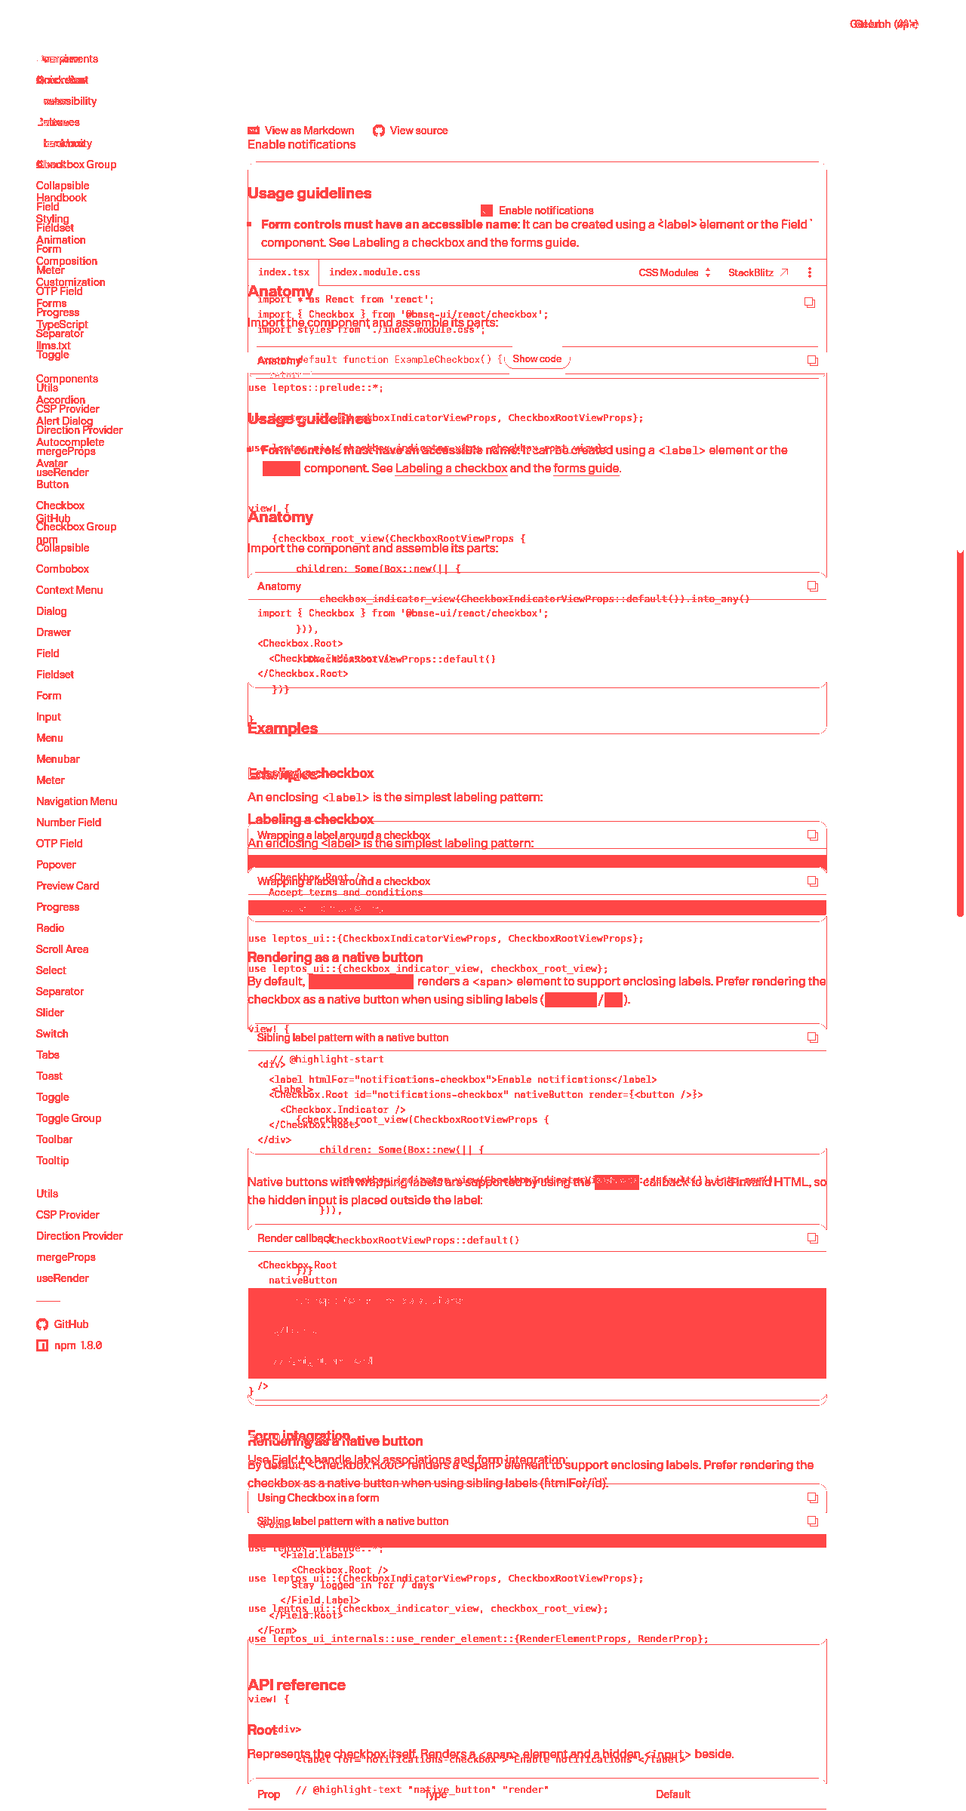
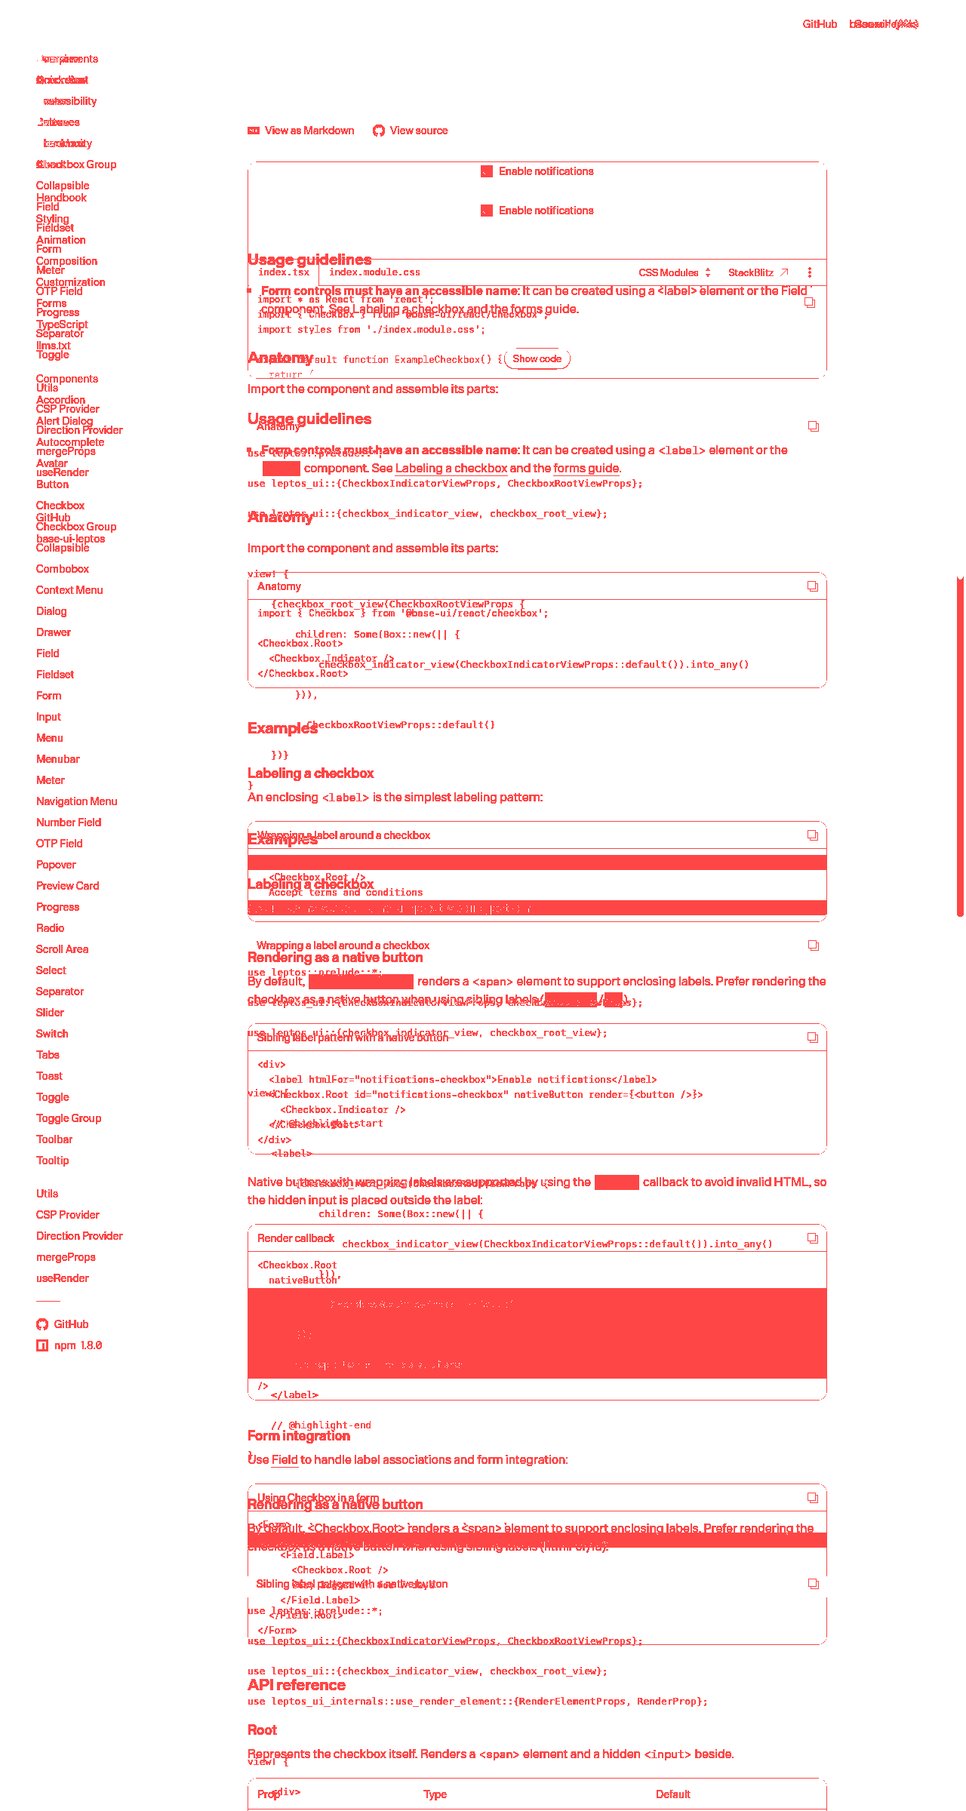
[docs-chrome: API reference tables] closed on measurement: both named routes render upstream's reference shape at tables parity (button 1/2 vs 1/2, checkbox 2/28 vs 2/28), props rows and anchors upstream's, on an independent re-check of work that had landed unverified [model: deepseek-v4-flash]
Chosen OVER the mechanical suggestion (`docs-copy: install lines + React type columns on the 18 mirrored
pages (no-rework lane)`) and recorded as such in TODO.md before any work: that item is `status: blocked`
and its blocked-reason was re-measured at this tree rather than trusted — it holds (check-package-alias 12
defects, check-react-mentions --source 59 fail), and its residuals are owned elsewhere (5 `#[cfg(test)]`
positive controls; 7 first lines of rendered example blocks owned by the snippet-translation batches 3/4,
two of whose routes cannot be translated at all because the crate exposes no Separator/Toggle component).
This item was instead unblocked, bounded, and carried unverified/unrecorded work.

Verification of the two done-when clauses, browser-measured (both dev servers up, 1280px, served build
42968858b on this tree):
  * button: 5 `details.AccordionItem` prop rows with upstream's anchors + `ReferenceTableRoot >
    table.TableRootTable` (head + 1 row, upstream's head cells and cell text);
  * checkbox: 22 prop rows (18 CheckboxRoot-*, 4 CheckboxIndicator-*) + 2 tables of 12/14 body rows =
    upstream's 26 data-attribute rows;
  * tables recall parity from the two-sided instrument (`ralph/logs/visual/{button,checkbox}.md`), and
    neither route's gap list names an `API reference tables` gap any more;
  * `cargo test -p docs-app --lib` 56 green, including the page's `reference_content_guard` drift tests;
[…]

diff --git a/TODO.md b/TODO.md
@@ -2831,11 +2831,12 @@ below is what keeps them from silently regressing.
       done-when: each hero/demo renders inside upstream's demo container — bordered panel, the react/tailwind/css-modules file selector tabs, and the code block beneath it — instead of a bare component on the page; page-level state is reported by the page scorecard (`node ralph/scripts/check-page.mjs --route <route> [--strict]`, ralph/PLAN.md §3) — the bars this item owes are the ones stated above
       note: the demos themselves mount and work (demos recall is already 1/1 on checkbox); what is missing is entirely their presentation
 
-- [ ] docs-chrome: API reference tables
+- [x] docs-chrome: API reference tables
       crate: docs-app
       specs: docs/src/components/DescriptionList.tsx, docs/src/app/(docs)/react/components/checkbox/types.md
       blocked-by: [docs-app: routing + layout shell, docs-content: components/button]  # precise deps: the shell this item always named, plus the button page's `## Snippet & behaviour contract` its own blocked-then-unblocked note above records (the button page's API-reference section is half this item's done-when, and this loop's step 6c forbids repairing a page whose spec carries no contract) — both done
-      status: not-started
+      status: done
+      commit: (pending — this item's own work/ledger commit; its sha is recorded by the follow-up sha-record commit, deliberately not pre-filled so no fabricated sha can survive an interrupted iteration)
       note: BLOCKED THIS ITERATION, and the reason is NOT a gate failure — `bash ralph/scripts/run-regression.sh "docs-chrome: API reference tables"` exits 0 at this tree. The checkbox half is DONE and measured (tables 0/2 -> 2/2 parity, blended score 72.21 -> 83.89, see the closing note below); the button route the done-when also names is NOT landed, because the button page's spec carries no `## Snippet & behaviour contract` and its live Anatomy block still teaches upstream's React source (`crates/docs-app/src/pages/button_page.rs`) — page work there is the `docs-spec:` queue per `specs/docs-content/CONTRACT.md` requirement 5 and this loop's step 6c, so it was not improvised, and the item is left open rather than marked done over a clause it does not meet. Unblock path: author the button page's contract (a `docs-spec:` pick), then render its generated tables with the primitives this iteration added (`crate::reference`), which makes the button half a small, bounded change.
       note: UNBLOCKED 2026-09-16 by `docs-content: components/button` (commit 174a1b0ad) — the blocker this
         note recorded above is GONE, verified at this tree rather than assumed: `node
@@ -2956,6 +2957,82 @@ below is what keeps them from silently regressing.
         the port renders prose), the third of the page's three named gaps that this loop can close without
         touching demo chrome, and (4) bounded: this crate's page file plus the ported primitive module, with
         the checkbox half already landed as the shape to follow and re-measure against.
+      note: STEP 0 RECORD, written BEFORE any implementation work — CHOSEN OVER the mechanical suggestion
+        (`docs-copy: install lines + React type columns on the 18 mirrored pages (no-rework lane)`, which
+        `pick-next-todo.mjs` re-run this iteration prints). That item is `status: blocked`, and its recorded
+        blocked-reason was RE-MEASURED at this tree rather than trusted: it HOLDS — `node
+        ralph/scripts/check-package-alias.mjs` reads 12 defect(s) and `node
+        ralph/scripts/check-react-mentions.mjs --source` 59 fail — and its residuals decompose again into
+        clusters it does not own: 5 `#[cfg(test)] snippet_language_guard` POSITIVE CONTROLS
+        (accordion_page.rs:616, button_page.rs:540/567/571, checkbox_page.rs:872) that neither gate can
+        distinguish from reader-facing content, and 7 FIRST LINES of *rendered* example blocks owned by
+        `docs-chrome: snippet translation (batch 3)` (otp-field:188, progress:265, separator:136, toggle:197)
+        and `(batch 4)` (csp-provider:130/167, direction-provider:169). So it is not closable this iteration —
+        and neither is its own unblock path: 2 of batch 3's 4 routes CANNOT be translated today (the crate
+        exposes no `Separator`/`Toggle` component — measured: `crates/leptos-ui/src/separator.rs` and
+        `toggle/mod.rs` carry `separator_element`/`toggle_element` and no `#[component]`, and
+        `check-part-surface.mjs` records both units INERT because their mined specs document no own part), so
+        the only portable teaching form there is a `…(…Props { .. })` raw call that `docs-ergonomics` and
+        `library: namespaced part surface (inputs batch)` will re-spell — precisely the rework the blocked
+        item's note forbids. WHY THIS ITEM, and why it is broken state rather than a fresh start: both of its
+        deps (`docs-app: routing + layout shell`, `docs-content: components/button`) are done, its checkbox
+        half is recorded done, and its BUTTON half existed in the tree as UNVERIFIED, UNRECORDED work — the
+        driver's post-condition landed the previous iteration's uncommitted edit to
+        `crates/docs-app/src/pages/button_page.rs` as snapshot 96d135b22 (subject ends "NOT a
+        done-marking"), so the page source renders `reference::props_section(BUTTON_PROPS, …)` +
+        `reference::data_attributes_table(…)` while this item's own note still says the button route
+        "renders its `## API reference` section as prose (`api_part`)" — a claim the tree contradicts (no
+        `api_part` exists). An independent re-check of landed work is this ledger's own doctrine, and this
+        item's done-when (tables recall parity on the routes whose upstream page carries tables) is the bar it
+        is written against. `blocked-by` is UNCHANGED — nothing narrowed, nothing blanked.
+        TWO MEASUREMENT CORRECTIONS, recorded because the first version of this note claimed the opposite of
+        what the instrument shows. (1) I first "proved" the button route lacked the tables by grepping `curl`
+        for `Button-focusableWhenDisabled` and `ReferenceTableRoot` and getting 0 hits — that evidence is
+        WORTHLESS, because this docs app is client-side rendered (`crates/docs-app/index.html` mounts the wasm
+        bundle; the served document is a shell that contains no page text at all). (2) I then called the
+        button half "UNSERVED": it is not — my `cargo leptos build` was a NO-OP ("Finished in 0.25s", the
+        served wasm unchanged at 42,968,858 bytes) and the served build already carried the work, which is
+        why the route measures identically before and after (87.41, visual 93.04, pixelDiff 6.96%). The
+        claim is withdrawn and replaced with the real instrument, in the closing note below.
+      note: CLOSED THIS ITERATION on measurement, clause by clause, both halves re-checked rather than
+        inherited. (1) THE SECTION RENDERS UPSTREAM'S SHAPE, NOT PROSE — CDP probe over the served app at
+        1280px (both dev servers up): the button route carries 5 `details.AccordionItem` prop rows with
+        upstream's anchors (`#Button-focusableWhenDisabled`, `#Button-nativeButton`, `#Button-className`,
+        `#Button-style`, `#Button-render`, each showing upstream's short summary type) plus
+        `div.ReferenceTableRoot > table.TableRootTable` (1 table, head + 1 body row, heads
+        `Attribute | Description | -`, the cell reading "Present when the button is disabled."); the checkbox
+        route carries 22 prop rows (18 `CheckboxRoot-*`, 4 `CheckboxIndicator-*`, upstream's anchors) and 2
+        tables of 12 + 14 body rows = the 26 data-attribute rows upstream shows, with all 26 descriptions.
+        (2) TABLES RECALL IS AT PARITY on both routes the done-when names, measured by ONE instrument that
+        renders both apps (`visual-gap-report.mjs`, which is where the number is printed at all — see the
+        discrepancy-log entry below): `ralph/logs/visual/button.md` upstream `1 / 2` vs leptos `1 / 2` and
+        `ralph/logs/visual/checkbox.md` upstream `2 / 28` vs leptos `2 / 28` — and neither route's gap list
+        contains an `API reference tables` gap any more (it did on checkbox when the blocked note was
+        written: "upstream renders 2 table(s) (28 rows); this page renders 0"). The served bundle is this
+        tree's: build 42968858b, wasm 42,968,858 bytes, both sides at 1280px. SOURCE SIDE, re-checked rather
+        than trusted: `crates/docs-app/src/reference.rs` renders upstream's element shape (its module docs
+        `:23-35` name `ReferenceTableRoot`/`TableRootTable`/`AccordionItem`; upstream's own API reference
+        renders through the docs site's `Accordion` component and `DescriptionList`, cited by this item's
+        `specs:` field) and the page's own drift guard (`reference_content_guard`: row names and order,
+        upstream's short summary types, the `Button-<name>` anchors, the documented defaults, the
+        complementary Default-cell rule, and the every-row-carries-content check) is among the 56 docs-app
+        host tests that pass. HONEST LIMITS, not claimed: (a) the docs-app WASM suite cannot run on this box
+        right now — `button_page_api_reference_renders_upstreams_section_and_table` (render_test.rs:2304) was
+        SIGKILLed (signal 9; the 4 GiB cgroup OOM the code-blocks entry already records for this same 36 MB
+        debug module), so that assertion is enabled-but-unrun and the browser DOM evidence plus the host
+        guards are what back this done-marking; (b) this iteration changed NO page source, so it claims no
+        score delta: the recorded baselines were kept by the gate (checkbox 85.85 was 85.87, button 87.41 was
+        87.42, worst delta on any recorded route -0.05, three routes' widget regions still UNMEASURABLE as
+        before); (c) ONE residue is left visible rather than quietly fixed inside a done-marking — upstream
+        also mirrors each data attribute as a props-accordion row beside the table (button: upstream 6
+        `details` rows vs this port's 5), which this item's done-when does not name; measured, written up in
+        `ralph/logs/spec-discrepancies.md`, and left for a future iteration of this item or of
+        `docs-chrome: API reference code blocks`. GATE: `bash ralph/scripts/run-regression.sh "docs-chrome:
+        API reference tables"` EXIT 0 at this tree — citation check (the two `specs:` entries are upstream
+        source files, 0 citations each), `cargo test --workspace` green (366 + 416 + 281 + 56 + 11 + 1 + …
+        host tests, 0 failures), `TODO.md` schema OK (178 items), sandbox parity OK,
+        `cd crates/docs-app && cargo leptos build` OK, and `check-visual-budget --all-done` ok on every
+        recorded route with no route regressed.
 
 - [ ] docs-chrome: demo styling (the demos carry upstream's Tailwind variant, which this app does not compile)
       crate: docs-app

diff --git a/ralph/logs/visual/button.md b/ralph/logs/visual/button.md
@@ -1,34 +1,28 @@
 # Visual gap report — react/components/button
 
-Generated by `ralph/scripts/visual-gap-report.mjs` at 2026-09-16T04:50:37.821Z.
-Measured build: wasm 35803229 bytes, last-modified Wed, 16 Sep 2026 04:08:20 GMT.
+Generated by `ralph/scripts/visual-gap-report.mjs` at 2026-09-16T13:55:50.889Z.
+Measured build: wasm 42968858 bytes, last-modified Wed, 16 Sep 2026 13:55:08 GMT.
 Both sides rendered at 1280px in Chrome for Testing: upstream React docs on
 http://127.0.0.1:3005, Leptos docs-app on http://127.0.0.1:3177.
 
-**Pixel difference: 8.29%** (254661 of 3072000 px)
-**Component widget parity: 84.42%** (bar: 97%)
+**Pixel difference: 6.99%** (214639 of 3072000 px)
+**Component widget parity: 100%** (bar: 97%)
 
 - mask (white/bright = differs): `ralph/logs/visual/button-mask.png`
 - overlay (upstream grey, ours red): `ralph/logs/visual/button-sbs.png`
 
 ## Prioritised gaps
 
-- **P0 · syntax highlighting** — upstream's code carries 56 coloured tokens; this page has 0 — the code is unstyled monochrome
-  - fix: port the highlighter (upstream pre-computes tokens via rehype/Shiki into CodeBlockPreComputed) and render the token spans with their colours
-- **P0 · component widget parity** — the rendered component area is 84.42% identical to upstream (bar: 97%)
-  - fix: compare ralph/logs/visual/<component>-upstream-widget.png against -leptos-widget.png: both are cropped to the same rect around the demo's own control, so the gap is inside the component's own markup (spacing, control size, colours, font), not the page around it. This is the number the Phase E parity item is measured on.
 - **P1 · code blocks** — this page has 2 <pre> blocks vs upstream's 10 (20%)
   - fix: render the embedded snippets through the ported code-block component so each code fence becomes its own block
+- **P1 · syntax highlighting** — coloured tokens 29 vs upstream 56
+  - fix: extend the highlighter coverage — some snippets render unstyled
 - **P1 · demo file tabs** — upstream renders 4 tab(s) for demo source files; this page renders none
   - fix: wrap each demo in upstream's Demo container with the react/tailwind/css-modules file selector
 - **P2 · page affordances** — upstream shows 6 page actions (View as Markdown / View source / StackBlitz / StackBlitz); this page shows none
   - fix: add the page-action row (View as Markdown / View source) to the docs page shell
-- **P2 · code copy control** — upstream renders 4 copy affordance(s) on code; this page renders none
-  - fix: add the copy-to-clipboard control to the code-block chrome
 - **P2 · typography <code>** — font monospace vs Paper Mono
   - fix: match upstream's code styles in the docs stylesheet
-- **P2 · typography <pre>** — font monospace vs Paper Mono
-  - fix: match upstream's pre styles in the docs stylesheet
 - **P2 · typography <li>** — font-size 16px vs 14px, line-height 24px vs 22px
   - fix: match upstream's li styles in the docs stylesheet
 
@@ -41,12 +35,12 @@ http://127.0.0.1:3005, Leptos docs-app on http://127.0.0.1:3177.
 | header | 64px | 64px |
 | links | 35 | 7 |
 | code blocks | 10 | 2 |
-| coloured code tokens | 56 | 0 |
-| copy controls | 4 | 0 |
+| coloured code tokens | 56 | 29 |
+| copy controls | 4 | 2 |
 | demo tabs | 4 | 0 |
 | tables / rows | 1 / 2 | 1 / 2 |
-| snippets (leptos/react/other) | 0/4/6 | 2/0/0 |
-| page text chars | 4315 | 4014 |
+| snippets (leptos/react/other) | 0/6/4 | 2/0/0 |
+| page text chars | 4315 | 4038 |
 | article width px | 768 | 768 |
 | body font | die grotesk a | die grotesk a |
 
@@ -60,6 +54,6 @@ http://127.0.0.1:3005, Leptos docs-app on http://127.0.0.1:3177.
 | p | 18px/28px 400 die grotesk a | 18px/28px 400 die grotesk a |
 | li | 14px/22px 400 die grotesk a | 16px/24px 400 die grotesk a |
 | code | 13px/20px 400 Paper Mono | 13px/20px 400 monospace |
-| pre | 13px/20px 400 Paper Mono | 13px/20px 400 monospace |
+| pre | 13px/20px 400 Paper Mono | 13px/20px 400 Paper Mono |
 | table | 14px/20px 400 die grotesk a | 14px/20px 400 die grotesk a |
 | a | 14px/22px 400 die grotesk a | 16px/24px 400 die grotesk a |

diff --git a/ralph/logs/spec-discrepancies.md b/ralph/logs/spec-discrepancies.md
@@ -1672,6 +1672,41 @@ and 4). Recorded here with the citation, not silently reconciled.
    compares the classes of BOTH blocks, and only a match against upstream's own
    framework-classified source counts. Control run, unchanged behaviour:
    `--route react/components/separator` (a genuine upstream-React block) still fails with the same P0.
-   Why this matters beyond one page: `docs-ergonomics: mirrored snippets must read like upstream's`
-   gates on this command exiting 0 for every route, so a false P0 here was a permanent block on an item
+   Why this matters beyond one page: `docs-ergonomics: mirrored snippets must read like upstream's` gates
+   on this command exiting 0 for every route, so a false P0 here was a permanent block on an item
    this batch unblocks.
+
+## 2026-09-16 — `docs-chrome: API reference tables`: what "tables recall" is, and the one residue the DOM probe found (findings only; no spec claim is contradicted)
+
+Written while independently re-checking this item's two halves (checkbox landed earlier, button landed by a
+driver snapshot, 96d135b22). Two findings, recorded because a later iteration would otherwise have to
+re-derive them.
+
+1. **"Tables recall" is a scoring TERM, not a printed number.** `ralph/scripts/check-visual-budget.mjs:184`
+   computes `tables: ratio(l.tables, u.tables)` as one of the seven clamped terms behind content recall;
+   the printed report shows the blended score, the visual/content split, the snippet triple and the widget
+   percentage — the word "tables" does not appear. The only place both sides' table counts ARE printed is
+   `ralph/scripts/visual-gap-report.mjs`'s `tables / rows` inventory line, which renders both pages in one
+   instrument (`ralph/logs/visual/<route>.md`). Measured this iteration (build 42968858b, both dev servers
+   up): button upstream `1 / 2`, leptos `1 / 2`; checkbox upstream `2 / 28`, leptos `2 / 28` — ratio 1.0 on
+   both, i.e. the item's bar is met. Not a defect to fix here (no bar moved); recorded so that an iteration
+   told to "reach tables parity" knows where the number lives.
+
+2. **Upstream renders each data attribute as a props-accordion row AS WELL AS in the table; this port renders
+   the table only.** Measured in the browser at 1280px by a CDP probe over both live pages (2026-09-16). On
+   the BUTTON route the port's API-reference section carries 5 `details.AccordionItem` rows
+   (`#Button-focusableWhenDisabled`, `#Button-nativeButton`, `#Button-className`, `#Button-style`,
+   `#Button-render`, each with upstream's short summary type label) against upstream's 6 — upstream's sixth
+   is `data-disabled`, with no anchor — while both sides' `div.ReferenceTableRoot > table.TableRootTable`
+   counts and row counts match exactly (1 table; head + 1 body row; heads `Attribute | Description | -`;
+   the cell reads "Present when the button is disabled." on both). On the CHECKBOX route the port renders
+   22 prop rows (18 `CheckboxRoot-*`, 4 `CheckboxIndicator-*`, upstream's anchors) and 2 tables of 12 + 14
+   body rows = the 26 data-attribute rows upstream shows, plus their headers, with all 26 descriptions
+   intact. So tables parity holds on both routes and the prop rows/anchors are upstream's; the residue is
+   that upstream ALSO mirrors each data attribute as an accordion row, which this port's `reference::` shape
+   does not emit (1 row on button, 26 on checkbox). It is unowned by this item's `done-when` and is left
+   visible here rather than silently "fixed" inside a done-marking: a future iteration of this item or of
+   `docs-chrome: API reference code blocks` that wants the last row adds the data-attribute rows beside the
+   table. (The upstream CHECKBOX page itself was not re-probed: the upstream dev server stalled on that
+   route after ~9 minutes and the probe was killed; the checkbox numbers above are the port's side plus the
+   gap report's two-sided inventory line, which is the item's own instrument.)

diff --git a/ralph/logs/visual/checkbox.md b/ralph/logs/visual/checkbox.md
@@ -1,20 +1,18 @@
 # Visual gap report — react/components/checkbox
 
-Generated by `ralph/scripts/visual-gap-report.mjs` at 2026-09-16T05:47:58.703Z.
-Measured build: wasm 36218421 bytes, last-modified Wed, 16 Sep 2026 05:33:27 GMT.
+Generated by `ralph/scripts/visual-gap-report.mjs` at 2026-09-16T13:57:27.234Z.
+Measured build: wasm 42968858 bytes, last-modified Wed, 16 Sep 2026 13:55:08 GMT.
 Both sides rendered at 1280px in Chrome for Testing: upstream React docs on
 http://127.0.0.1:3005, Leptos docs-app on http://127.0.0.1:3177.
 
-**Pixel difference: 9.83%** (301985 of 3072000 px)
-**Component widget parity: NOT MEASURABLE — the two sides' regions are not the same kind of thing — upstream 166x36 vs leptos 784x57 (4.7x in a dimension, 7.5x in area), so their crops are not a parity** (bar: 97%)
+**Pixel difference: 9.72%** (298723 of 3072000 px)
+**Component widget parity: 100%** (bar: 97%)
 
 - mask (white/bright = differs): `ralph/logs/visual/checkbox-mask.png`
 - overlay (upstream grey, ours red): `ralph/logs/visual/checkbox-sbs.png`
 
 ## Prioritised gaps
 
-- **P0 · component widget not measurable** — the component region could not be compared: the two sides' regions are not the same kind of thing — upstream 166x36 vs leptos 784x57 (4.7x in a dimension, 7.5x in area), so their crops are not a parity
-  - fix: fix the region, not the component: check whether one side's demo container differs (upstream nests div.demo > DemoRoot > DemoPlayground > DemoPlaygroundInner, with the source panel as a sibling of the innermost) — ralph/scripts/lib/widget-region.mjs picks the innermost container that holds a control on each side, so a fault means one side has no such container or a wildly different one.
 - **P1 · code blocks** — this page has 5 <pre> blocks vs upstream's 32 (16%)
   - fix: render the embedded snippets through the ported code-block component so each code fence becomes its own block
 - **P1 · demo file tabs** — upstream renders 2 tab(s) for demo source files; this page renders none
@@ -41,7 +39,7 @@ http://127.0.0.1:3005, Leptos docs-app on http://127.0.0.1:3177.
 | copy controls | 6 | 5 |
 | demo tabs | 2 | 0 |
 | tables / rows | 2 / 28 | 2 / 28 |
-| snippets (leptos/react/other) | 0/7/25 | 5/0/0 |
+| snippets (leptos/react/other) | 0/11/21 | 5/0/0 |
 | page text chars | 13317 | 10657 |
 | article width px | 768 | 768 |
 | body font | die grotesk a | die grotesk a |
